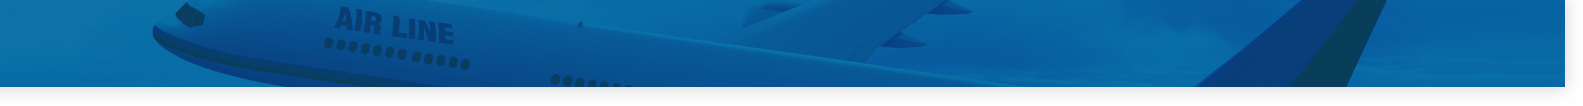
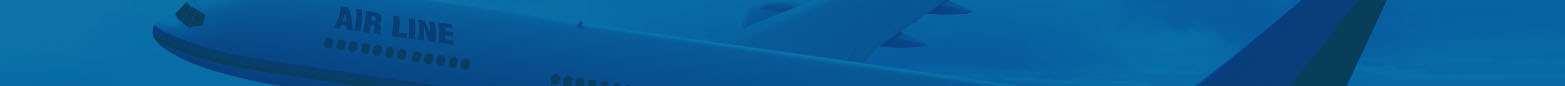
up

diff --git a/03travelcompany/index.html b/03travelcompany/index.html
@@ -8,20 +8,54 @@
 	<link rel="stylesheet" href="css/style.css">
 	<link rel="stylesheet" href="css/reset.css">
 	<link rel="stylesheet" href="css/jquery.bxslider.css">
-	<link rel="stylesheet" href="css/common.css">
 	<script src="jquery-3.1.1.min.js"></script>
 	<script src="jquery.bx.js"></script>
 
 </head>
 <body>
 
-	<header>
+	<header id="header">
 		<div class="bgimg">
 			<div class="header1">
-				<a href="#"><img src="" alt=""></a>
+				<a href="#"><img src="image/logoimg.png" alt=""></a>
+
+				<form action="#" method="get">
+					<fieldset>
+						<legend>검색창</legend>
+						<div class="textin">
+						<img src="image/searchtext.jpg" alt="">
+						<input type="text" placeholder="검색어 입력">
+						<img src="image/search.jpg" alt="">
+						</div> 
+					</fieldset>
+				</form>
+
 			</div>
 		</div>
+
+		<div class="mainmenu">
+			<ul class="clearfix">
+				<li><a href="#">메뉴1</a></li>
+				<li><a href="#">메뉴2</a></li>
+				<li><a href="#">메뉴3</a></li>
+				<li><a href="#">메뉴4</a></li>
+				<li><a href="#">메뉴5</a></li>
+				<li><a href="#">메뉴6</a></li>
+			</ul>
+		</div>
 	</header>
+
+	<div class="body">
+		<section class="fstbody">
+		<div class="slidwrap">
+			<ul>
+				<li>
+					
+				</li>
+			</ul>
+		</div>
+		</section>
+	</div>
 	
 </body>
 </html>

diff --git a/03travelcompany/css/style.css b/03travelcompany/css/style.css
@@ -1,1 +1,27 @@
 @charset "utf-8";
+
+/*header*/
+
+.bgimg{background:#0866a4;background-image: url(../image/04비행기.jpg);background-repeat: no-repeat;background-position:center;}
+.header1{margin: 0 auto;width: 980px;height: 90px;}
+.header1 img{margin-top:3px;}
+.header1 img:nth-child(3){position: absolute;right:10px;cursor: pointer;}
+.header1 a img{margin-top:20px;}
+.header1 .textin{}
+fieldset{border:1px solid white; background: white;width: 290px;height: 29px;margin: 0 auto;border-radius:29px;display: block;}
+fieldset input{border: 0 none;width: 130px;height: 23px;position: absolute;right: 70px;top:2px;}
+fieldset .textin{margin-left:10px;position: relative;}
+legend{display: block;position: absolute; left:0;top:-9999px;}
+
+
+/*manu*/
+
+.mainmenu{width: 980px;height: 60px;margin: 0 auto;}
+.mainmenu li{float: left;}
+
+/*body*/
+
+
+.body{background-image: url(../image/bg_dot.png),url(../image/01배경.jpg); background-repeat: repeat,no-repeat;background-size:auto,cover;width: 100%;}
+.fstbody{width: 980px;height: 610px;margin: 0 auto;}
+
